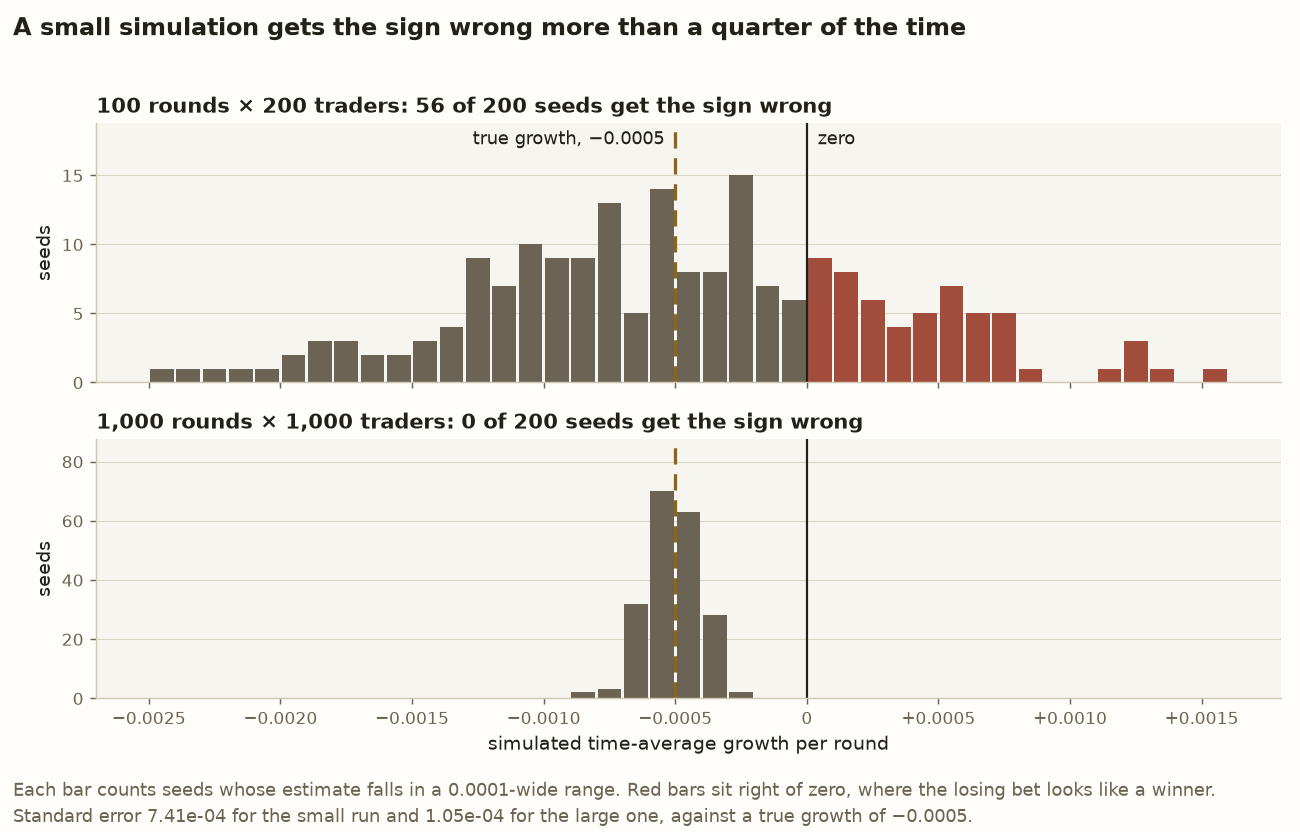
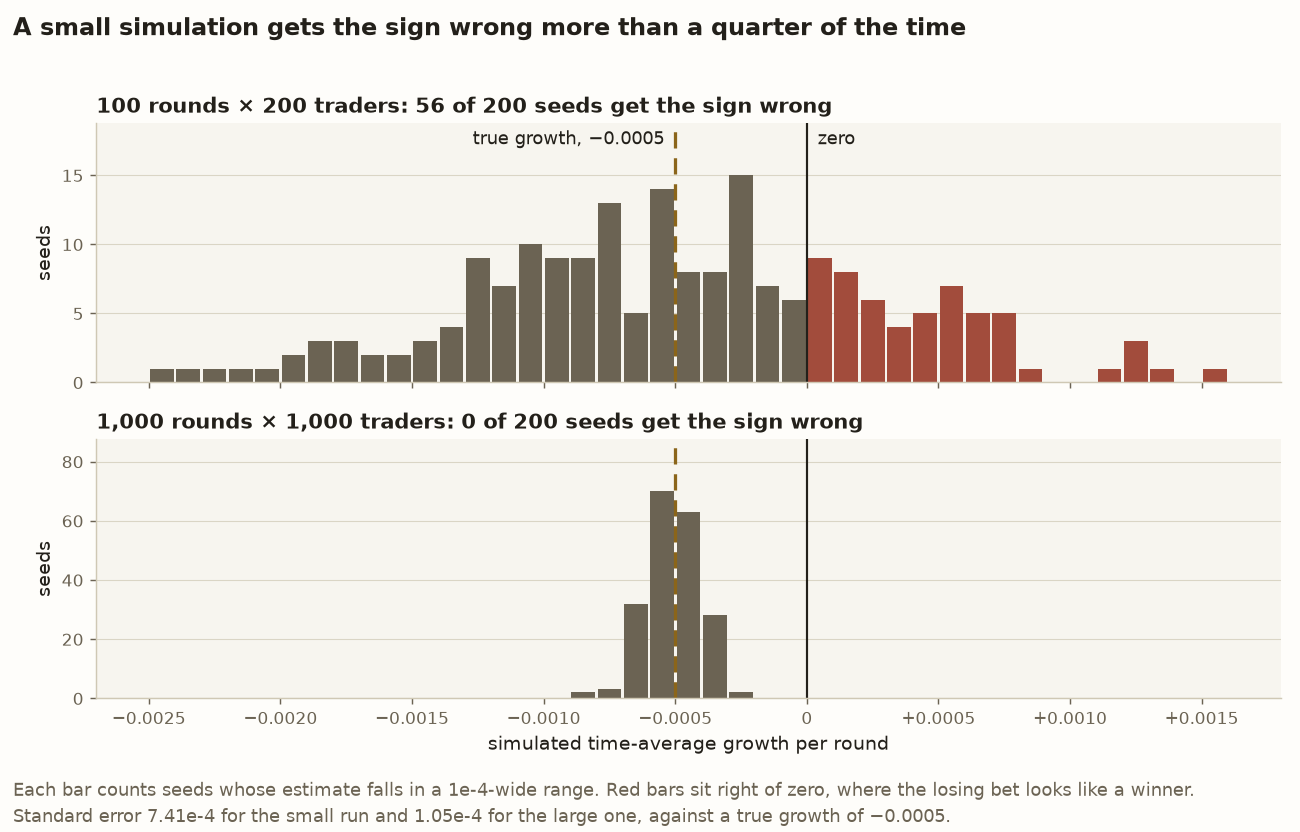
fix(chan): write the Lesson 6 figures' small numbers in e-notation
The post writes 1.05e-4 and 1e-4, which the owner finds easier to read,
while the two Lesson 6 figures printed 0.0001, 7.41e-04 and 1.05e-04. A
small formatter now drops the padded exponent, and the bin width, the two
standard errors and the per-toss band all go through it. The band is a
named constant the test holds, so the figure prints the bound the suite
asserts. Only the two Lesson 6 images change.

Changed region(s): [[0.1538, 0.9375, 0.9231, 1.0]]

diff --git a/src/chan/coin_flip_figures.py b/src/chan/coin_flip_figures.py
@@ -101,6 +101,10 @@ SIGN_BIN = 1e-4
 #: seed count the growth tests use to show the wealth average reading low.
 ESTIMATOR_RUN = (5000, 1000, 20)
 
+#: How close every per-toss estimate lands to the true ensemble growth, the
+#: band ``tests/test_coin_flip_growth.py`` holds and the estimator figure prints.
+PER_TOSS_BAND = 1e-4
+
 
 @dataclass(frozen=True)
 class StakeCurve:
@@ -148,6 +152,15 @@ def _dollars(x: float, _pos: object = None) -> str:
 def _signed_rate(y: float, _pos: object = None) -> str:
     """A growth-rate tick with a typographic minus, and a bare zero."""
     return "0" if abs(y) < 1e-12 else f"{y:+.4f}".replace("-", "−")
+
+
+def _sci(x: float, digits: int) -> str:
+    """E-notation without the padded exponent, so 1.05e-4 rather than 1.05e-04.
+
+    The post writes small figures this way, and the charts match it.
+    """
+    mantissa, exponent = f"{x:.{digits}e}".split("e")
+    return f"{mantissa}e{int(exponent)}"
 
 
 def _style(ax) -> None:
@@ -551,10 +564,10 @@ def make_sign_figure(out: Path | None = None) -> Figure:
     _title(
         fig,
         "A small simulation gets the sign wrong more than a quarter of the time",
-        f"Each bar counts seeds whose estimate falls in a {SIGN_BIN:.4f}-wide range. Red bars sit "
-        "right of zero, where the losing bet looks like a winner.\n"
-        f"Standard error {small.standard_error:.2e} for the small run and "
-        f"{large.standard_error:.2e} for the large one, against a true growth of "
+        f"Each bar counts seeds whose estimate falls in a {_sci(SIGN_BIN, 0)}-wide range. "
+        "Red bars sit right of zero, where the losing bet looks like a winner.\n"
+        f"Standard error {_sci(small.standard_error, 2)} for the small run and "
+        f"{_sci(large.standard_error, 2)} for the large one, against a true growth of "
         f"{_signed_rate(truth)}.",
     )
     fig.tight_layout(rect=(0, 0.07, 1, 0.96))
@@ -635,7 +648,7 @@ def make_estimator_figure(out: Path | None = None) -> Figure:
         fontsize=10,
     )
     ax.annotate(
-        f"all {seeds} dots, within 0.0001 of the true value",
+        f"all {seeds} dots, within {_sci(PER_TOSS_BAND, 0)} of the true value",
         (e.per_toss.min(), 0),
         xytext=(-14, 0),
         textcoords="offset points",
@@ -655,8 +668,8 @@ def make_estimator_figure(out: Path | None = None) -> Figure:
         f"Averaging final wealth reads low on all {seeds} seeds",
         f"{traders:,} simulated traders playing {rounds:,} rounds, one dot per seed. "
         "The wealth average misses the rare lucky paths that carry the mean.\n"
-        "Averaging each toss’s return needs no rare paths and lands within 0.0001 of "
-        "the true value every time.",
+        "Averaging each toss’s return needs no rare paths and lands within "
+        f"{_sci(PER_TOSS_BAND, 0)} of the true value every time.",
     )
     fig.tight_layout(rect=(0, 0.09, 1, 0.95))
     fig.estimates = e

diff --git a/tests/test_coin_flip_figures.py b/tests/test_coin_flip_figures.py
@@ -29,6 +29,7 @@ from chan.coin_flip_figures import (
     MAX_STAKE,
     MUTED,
     PATHS_FIGURE,
+    PER_TOSS_BAND,
     ROUNDS,
     RUN_SIZES,
     SIGN_FIGURE,
@@ -401,9 +402,9 @@ class TestTheSignFigure:
         assert large.standard_error == pytest.approx(1.0486e-4, abs=5e-8)
         (note,) = [t.get_text() for t in sign.texts if t is not sign._suptitle]
         assert note == (
-            "Each bar counts seeds whose estimate falls in a 0.0001-wide range. Red bars sit "
+            "Each bar counts seeds whose estimate falls in a 1e-4-wide range. Red bars sit "
             "right of zero, where the losing bet looks like a winner.\n"
-            "Standard error 7.41e-04 for the small run and 1.05e-04 for the large one, "
+            "Standard error 7.41e-4 for the small run and 1.05e-4 for the large one, "
             "against a true growth of −0.0005."
         )
 
@@ -476,7 +477,8 @@ class TestTheEstimatorFigure:
         # The alt text in the post describes the wealth average's spread by these.
         assert e.wealth_average.min() == pytest.approx(0.0023, abs=5e-5)
         assert e.wealth_average.max() == pytest.approx(0.0037, abs=5e-5)
-        assert np.all(np.abs(e.per_toss - e.truth) < 1e-4)
+        assert np.all(np.abs(e.per_toss - e.truth) < PER_TOSS_BAND)
+        assert PER_TOSS_BAND == 1e-4
 
     def test_the_dots_are_the_estimates_in_their_rows(self, estimator) -> None:
         e = estimator.estimates
@@ -496,14 +498,14 @@ class TestTheEstimatorFigure:
         assert _rgb(truth.get_color()) == _rgb(ACCENT)
         assert _texts(ax) == [
             "true ensemble growth\nln(1.005) = 0.0049875",
-            "all 20 dots, within 0.0001 of the true value",
+            "all 20 dots, within 1e-4 of the true value",
         ]
         assert estimator._suptitle.get_text() == "Averaging final wealth reads low on all 20 seeds"
         (note,) = [t.get_text() for t in estimator.texts if t is not estimator._suptitle]
         assert note == (
             "1,000 simulated traders playing 5,000 rounds, one dot per seed. "
             "The wealth average misses the rare lucky paths that carry the mean.\n"
-            "Averaging each toss’s return needs no rare paths and lands within 0.0001 of "
+            "Averaging each toss’s return needs no rare paths and lands within 1e-4 of "
             "the true value every time."
         )
 
